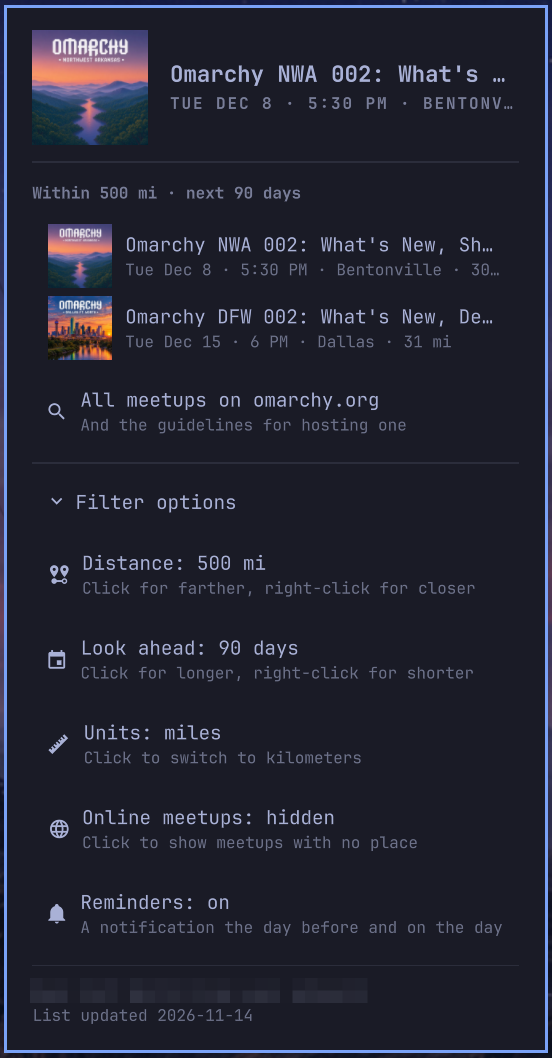
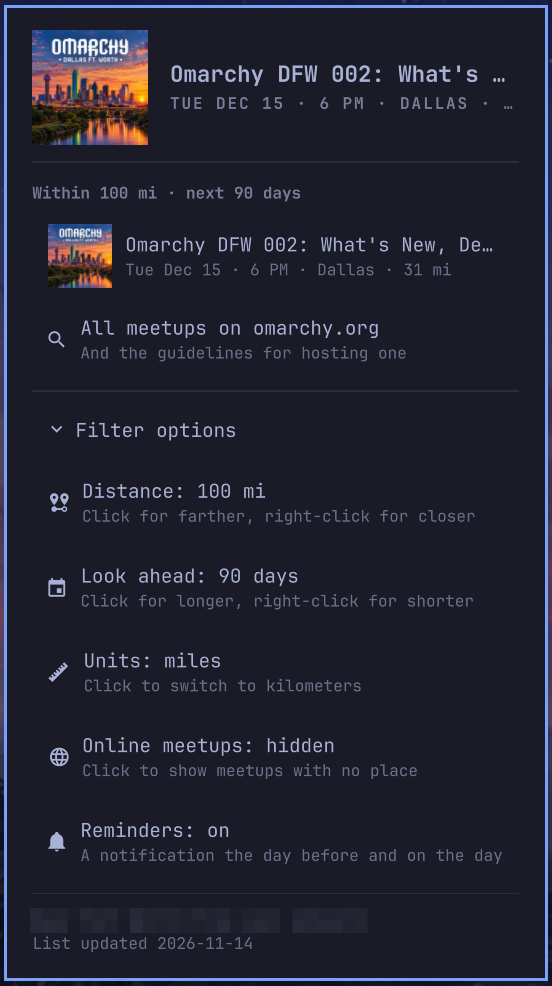
README: DFW 002 leads both screenshots (#4)
* README: DFW 002 leads both screenshots, aligned at the top

The options-open image now shows the same DFW-led list, and the two sit in
an HTML table aligned to the top, so the shorter list no longer sinks
below the taller one.

* README: add the 500 mi view under the DFW one, where NWA 002 joins the list

---------

diff --git a/README.md b/README.md
@@ -18,9 +18,21 @@ omarchy plugin add https://github.com/Gleasonmt/omarchy-meetups --enable
 The list, with each meetup's cover image. Its settings fold away under **Filter options** and open
 with a click. It wears whatever theme you're using:
 
-| The list | Filter options open |
-|---|---|
-| ![The list, headed by Omarchy DFW 002 in Dallas with its skyline cover](media/panel.png) | ![The list with Filter options open: distance, look ahead, units, online meetups and reminders](media/panel-options-open.png) |
+<table>
+  <tr>
+    <th>The list</th>
+    <th>Filter options open</th>
+  </tr>
+  <tr>
+    <td valign="top">
+      <img src="media/panel.png" width="400" alt="Within 100 miles: the list, headed by Omarchy DFW 002 in Dallas with its skyline cover"><br>
+      <sub>Within 100 mi of Dallas–Fort Worth</sub><br><br>
+      <img src="media/panel-500mi.png" width="400" alt="Within 500 miles: Omarchy NWA 002 in Bentonville joins the list, ahead of DFW 002"><br>
+      <sub>Widen it to 500 mi and Bentonville joins in</sub>
+    </td>
+    <td valign="top"><img src="media/panel-options-open.png" width="400" alt="The same list with Filter options open: distance, look ahead, units, online meetups and reminders"></td>
+  </tr>
+</table>
 
 What the bar shows:
 
